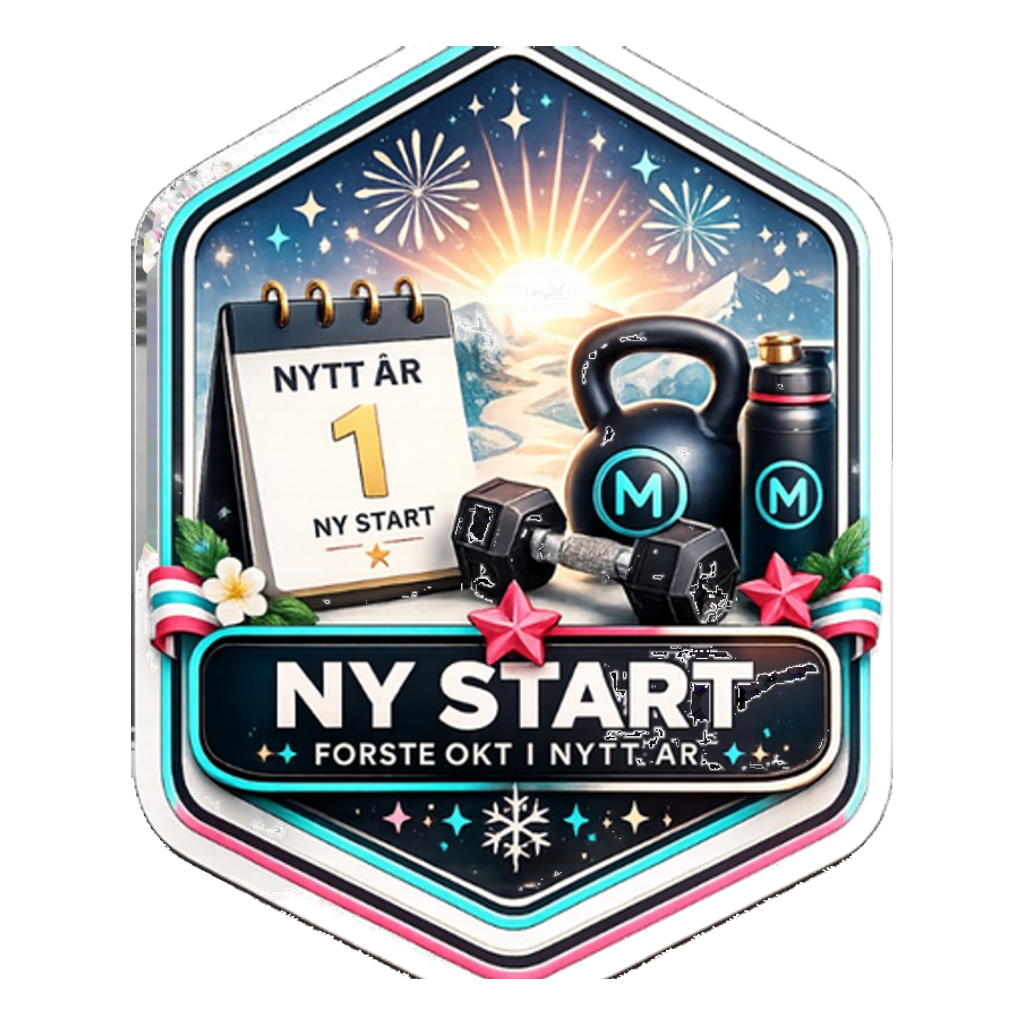
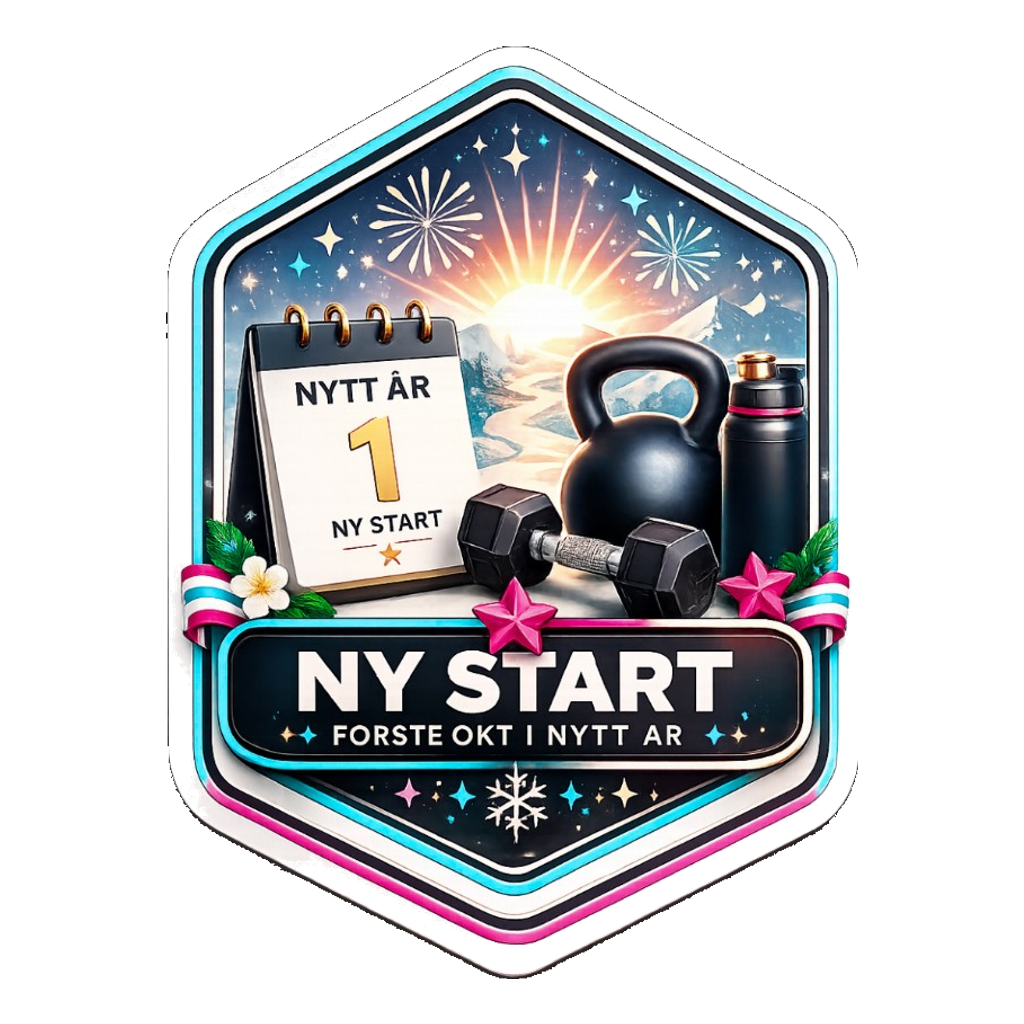
Update Ny start badge artwork
Replace 27-ny-start.png with black-edge-only transparency and bump cache version.

diff --git a/src/app/badgeAssets.ts b/src/app/badgeAssets.ts
@@ -1,5 +1,5 @@
 /** Felles badge-bilder (PNG 1024×1024, normalisert visuell størrelse). */
-export const BADGE_ASSET_VERSION = "26";
+export const BADGE_ASSET_VERSION = "27";
 
 export function badgeAssetUrl(path: string): string {
   const base = path.split("?")[0] || path;
